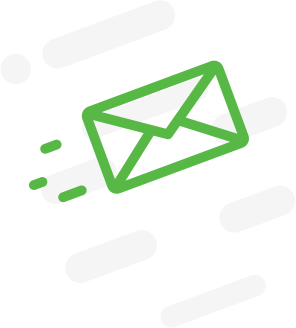
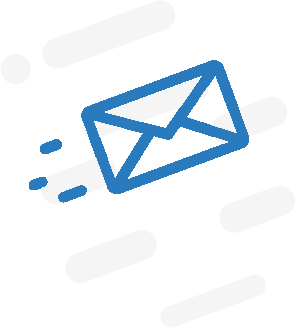
finalising project

diff --git a/public/css/main.css b/public/css/main.css
@@ -314,7 +314,9 @@ textarea.input1+.shadow-input1 {
     min-width: 193px;
     height: 50px;
     border-radius: 25px;
-    background: #57b846;
+    /*background: #57b846;*/
+    background: #287bd3;
+    ;
     font-family: Montserrat-Bold;
     font-size: 15px;
     line-height: 1.5;
